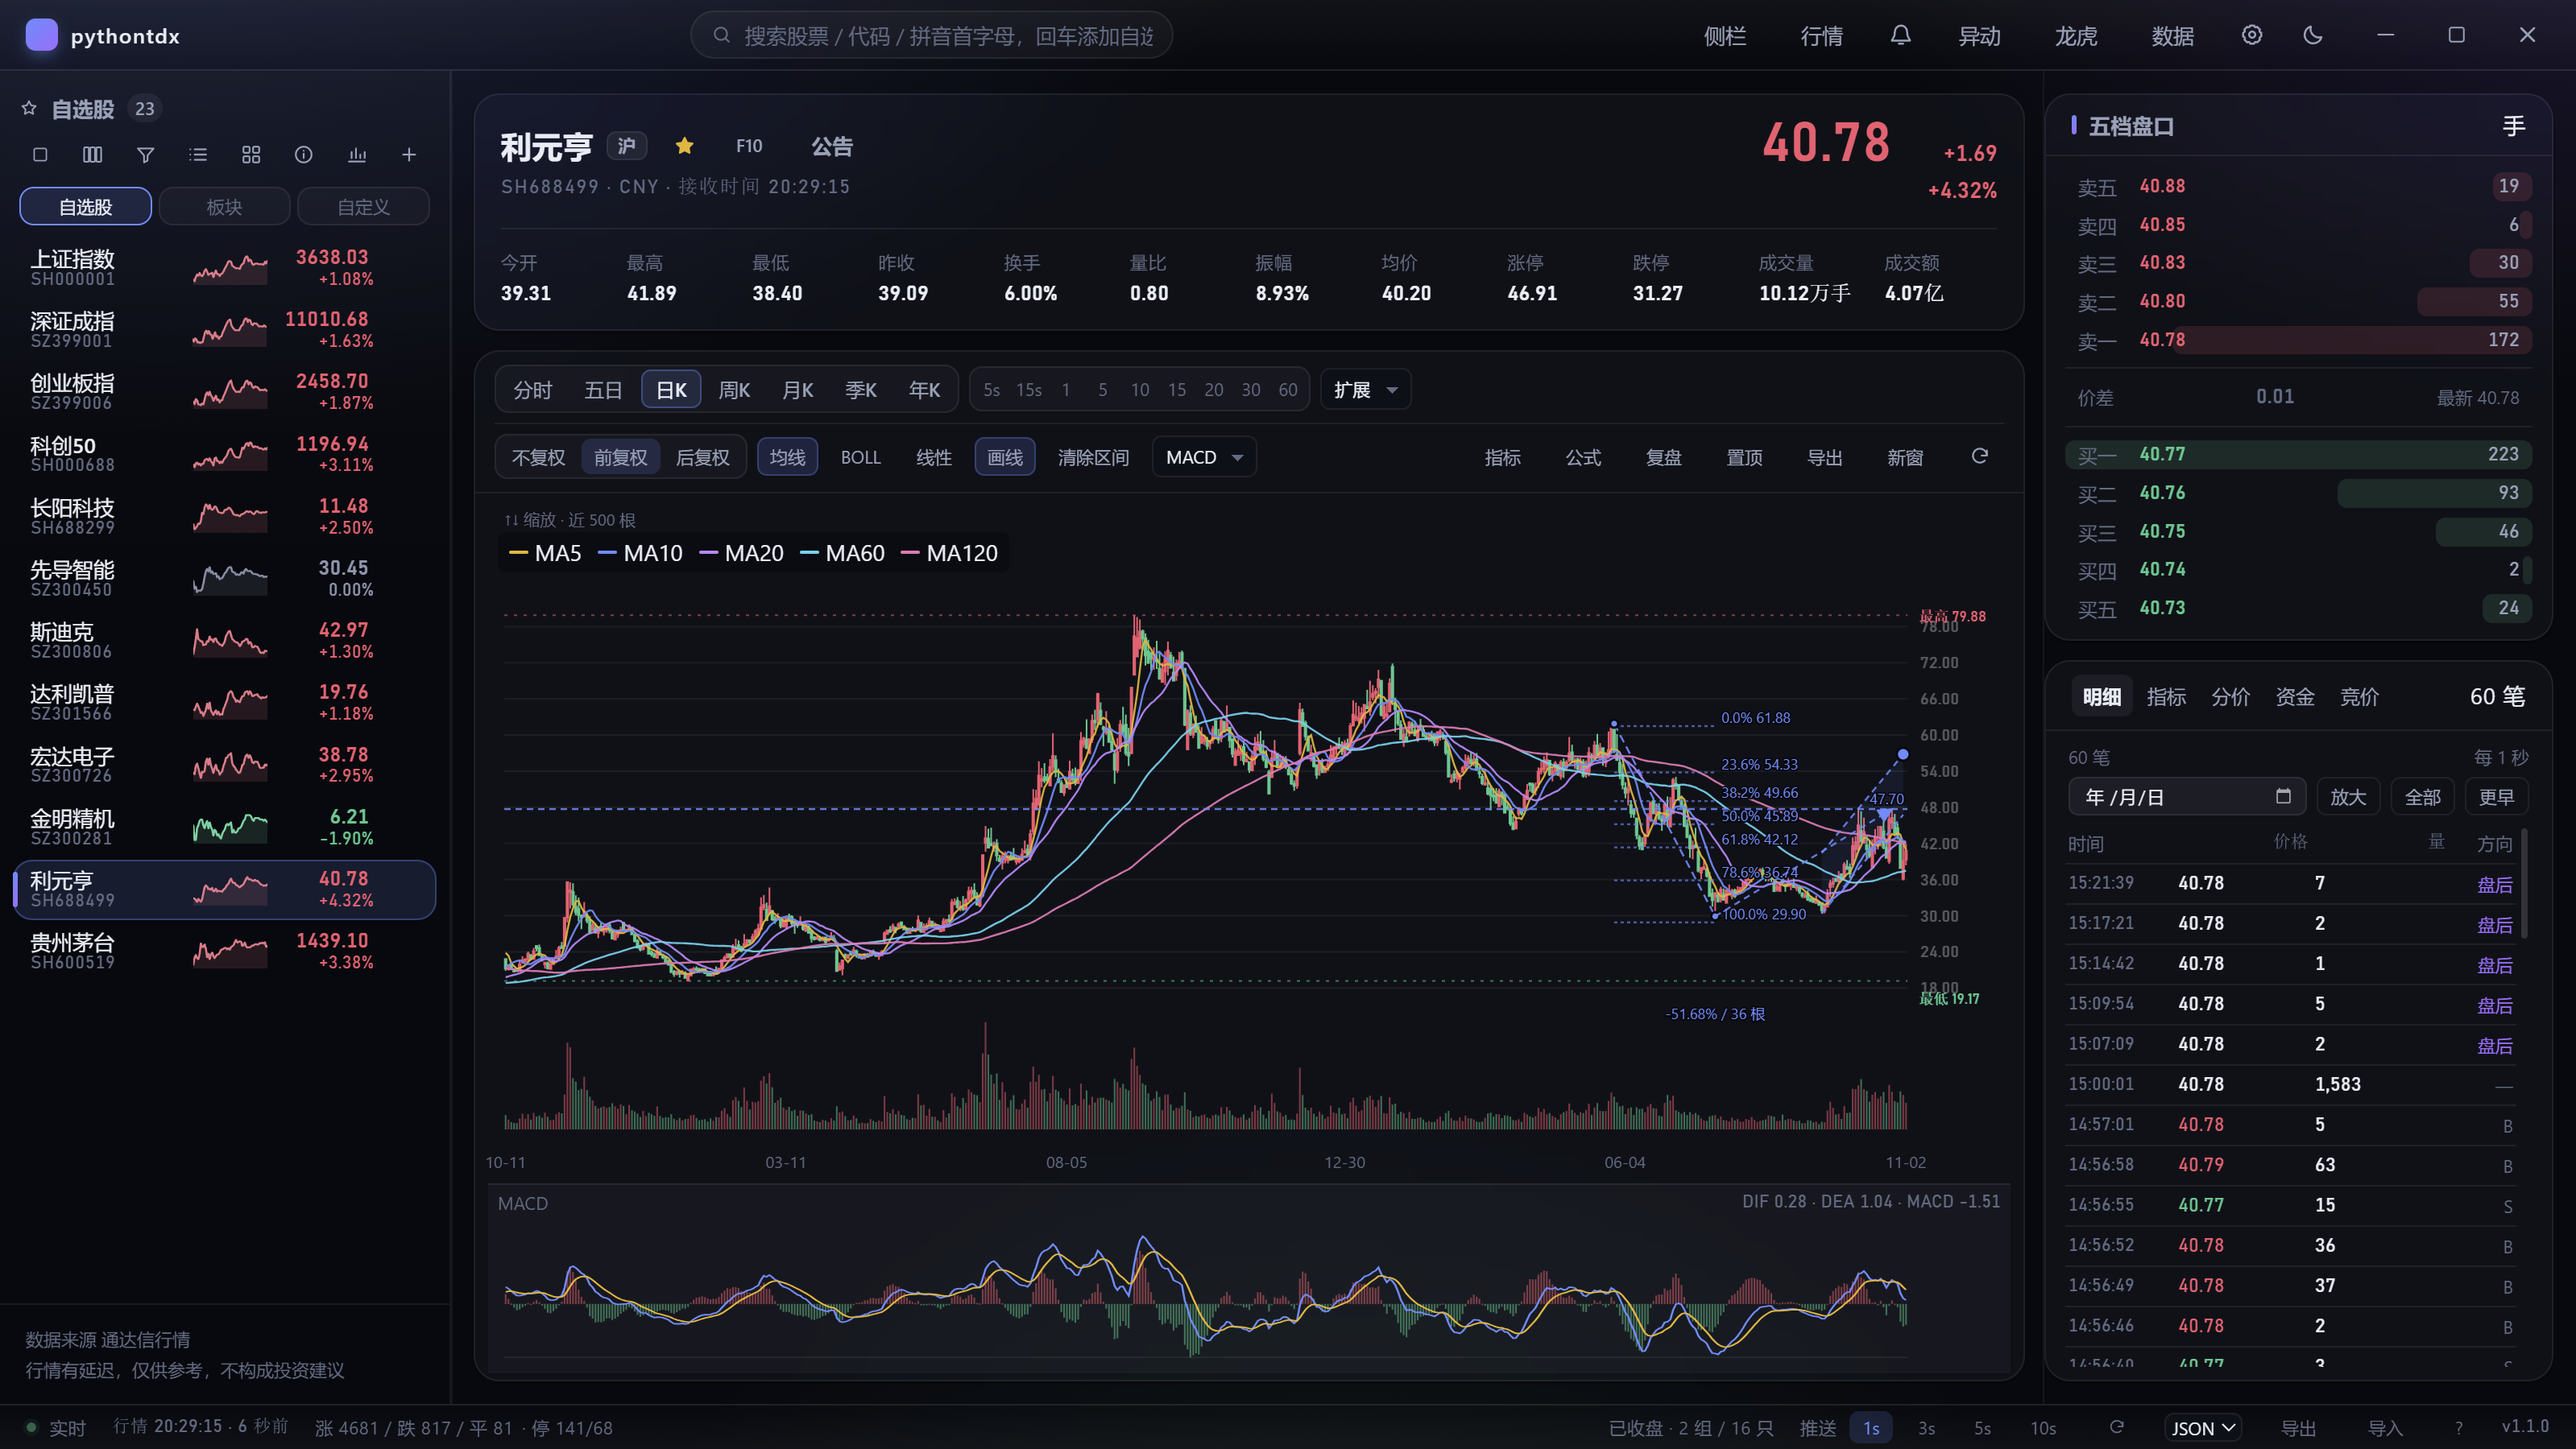
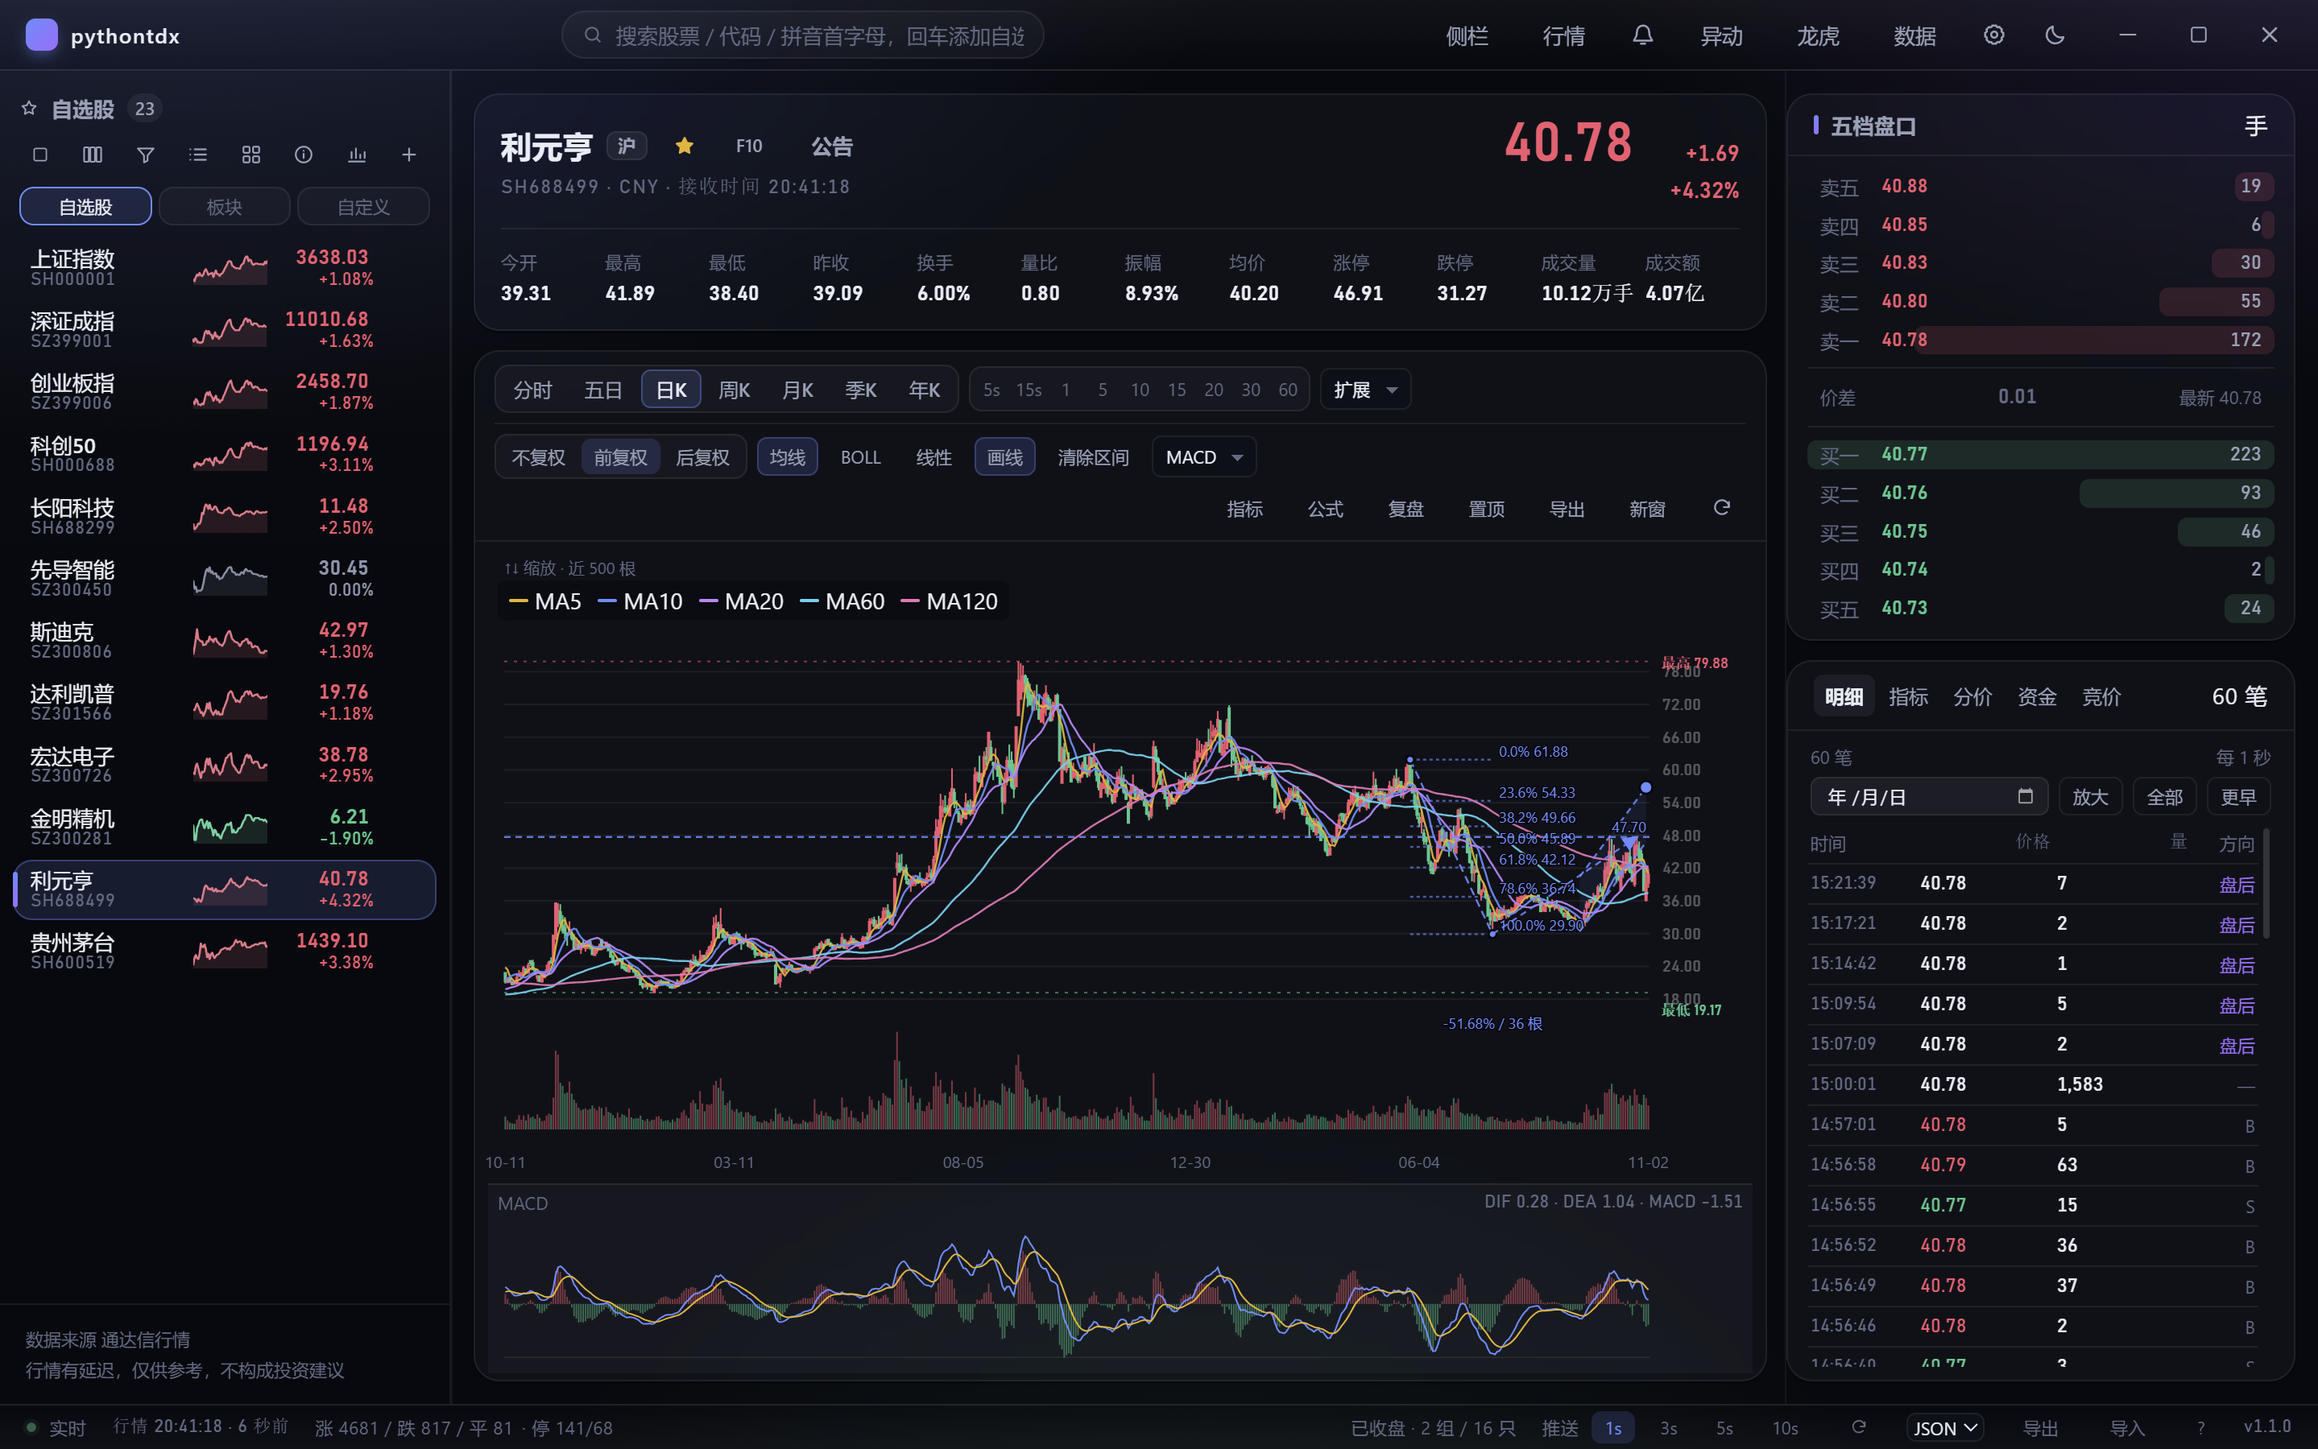
fix: 默认窗口 1440x900，主指标单行并适配宽表
- DEFAULT_WIDTH 1440；旧默认 1600x900/1280x820 启动时升级到 1440x900
- 主行情 12 项指标固定 12 列单行，1280 下缩小字号仍不裁切
- 全市场/板块/排行榜压缩列宽与间距，1440 下三表均无横向滚动
- 重新生成 README 的 overview/market/ranking/block 截图
- npm run check 全绿；Windows 1.1.0 安装包/便携版重新构建

diff --git a/src/renderer/src/components/BlockPanel.tsx b/src/renderer/src/components/BlockPanel.tsx
@@ -316,30 +316,16 @@ export function BlockPanel(props: BlockPanelProps): JSX.Element {
                   >
                     <table class="block__table">
                       <colgroup>
-                        <col style="width: 68px" />
-                        <col style="width: 100px" />
-                        <col style="width: 66px" />
-                        <col style="width: 68px" />
-                        <col style="width: 78px" />
-                        <col style="width: 56px" />
-                        <col style="width: 48px" />
-                        <col style="width: 54px" />
+                        <col style="width: 64px" />
+                        <col style="width: 88px" />
+                        <col style="width: 64px" />
+                        <col style="width: 64px" />
+                        <col style="width: 70px" />
+                        <col style="width: 52px" />
+                        <col style="width: 46px" />
+                        <col style="width: 50px" />
                         <For each={EXTRA_COLUMNS}>
-                          {(column) => (
-                            <col
-                              style={{
-                                width: `${
-                                  column.key === 'totalCap'
-                                    ? 70
-                                    : column.key === 'floatCap'
-                                      ? 72
-                                      : column.key === 'volume'
-                                        ? 70
-                                        : column.width - 2
-                                }px`
-                              }}
-                            />
-                          )}
+                          {(column) => <col style={{ width: `${column.width - 2}px` }} />}
                         </For>
                         <col style="width: 36px" />
                       </colgroup>

diff --git a/src/renderer/src/components/StockExtraColumns.tsx b/src/renderer/src/components/StockExtraColumns.tsx
@@ -15,17 +15,17 @@ export interface ExtraColumn {
 }
 
 export const EXTRA_COLUMNS: ExtraColumn[] = [
-  { key: 'open', label: '今开', width: 62 },
-  { key: 'high', label: '最高', width: 62 },
-  { key: 'low', label: '最低', width: 62 },
-  { key: 'prevClose', label: '昨收', width: 62 },
-  { key: 'volume', label: '成交量', width: 72 },
-  { key: 'avgPrice', label: '均价', width: 62 },
-  { key: 'amplitude', label: '振幅', width: 58 },
-  { key: 'limitUp', label: '涨停', width: 62 },
-  { key: 'limitDown', label: '跌停', width: 62 },
-  { key: 'totalCap', label: '总市值', width: 68 },
-  { key: 'floatCap', label: '流通市值', width: 70 }
+  { key: 'open', label: '今开', width: 58 },
+  { key: 'high', label: '最高', width: 58 },
+  { key: 'low', label: '最低', width: 58 },
+  { key: 'prevClose', label: '昨收', width: 58 },
+  { key: 'volume', label: '成交量', width: 64 },
+  { key: 'avgPrice', label: '均价', width: 58 },
+  { key: 'amplitude', label: '振幅', width: 54 },
+  { key: 'limitUp', label: '涨停', width: 58 },
+  { key: 'limitDown', label: '跌停', width: 58 },
+  { key: 'totalCap', label: '总市值', width: 64 },
+  { key: 'floatCap', label: '流通市值', width: 66 }
 ]
 
 const percent = (value: number | undefined): string =>

diff --git a/src/renderer/src/styles/app.css b/src/renderer/src/styles/app.css
@@ -684,11 +684,11 @@
   gap: var(--sp-2);
 }
 
-/* 头部下方的一排关键指标 */
+/* 头部下方的一排关键指标：固定 12 列，保证 1440×900 下不换行 */
 .quote-metrics {
   display: grid;
-  grid-template-columns: repeat(auto-fit, minmax(68px, 1fr));
-  gap: var(--sp-2) var(--sp-2);
+  grid-template-columns: repeat(12, minmax(0, 1fr));
+  gap: 4px 6px;
   padding-top: var(--sp-3);
   border-top: 1px solid var(--border);
 }
@@ -697,18 +697,39 @@
   display: flex;
   flex-direction: column;
   gap: 2px;
+  min-width: 0;
 }
 
 .metric__label {
   font-size: var(--fs-2xs);
   color: var(--text-3);
   letter-spacing: 0.04em;
+  white-space: nowrap;
 }
 
 .metric__value {
   font-size: var(--fs-sm);
   font-weight: 550;
   color: var(--text-1);
+  white-space: nowrap;
+  overflow: hidden;
+  text-overflow: ellipsis;
+  font-variant-numeric: tabular-nums;
+}
+
+@media (max-width: 1360px) {
+  .quote-metrics {
+    gap: 2px 4px;
+  }
+
+  .metric__label {
+    font-size: 10px;
+    letter-spacing: 0;
+  }
+
+  .metric__value {
+    font-size: 10px;
+  }
 }
 
 /* ================================================================ 图表卡 */

diff --git a/src/main/window.ts b/src/main/window.ts
@@ -12,7 +12,7 @@ import { setupCapture } from './capture'
 import { attachDiagnostics } from './diagnostics'
 import type { WindowBounds } from './services/store'
 
-const DEFAULT_WIDTH = 1600
+const DEFAULT_WIDTH = 1440
 const DEFAULT_HEIGHT = 900
 const MIN_WIDTH = 1024
 const MIN_HEIGHT = 660
@@ -49,10 +49,10 @@ export interface CreateWindowOptions {
 export function createMainWindow(options: CreateWindowOptions = {}): BrowserWindow {
   const icon = resolveWindowIcon()
 
-  // 旧默认尺寸升级到 16:9 的 1600×900；用户自定义尺寸保持原样。
+  // 旧默认尺寸（1600×900 / 1280×820）升级到 1440×900；用户自定义尺寸保持原样。
   const legacyDefault =
-    (options.bounds?.width === 1280 && options.bounds?.height === 820) ||
-    (options.bounds?.width === 1440 && options.bounds?.height === 900)
+    (options.bounds?.width === 1600 && options.bounds?.height === 900) ||
+    (options.bounds?.width === 1280 && options.bounds?.height === 820)
       ? options.bounds
       : undefined
   const window = new BrowserWindow({

diff --git a/src/renderer/src/styles/components.css b/src/renderer/src/styles/components.css
@@ -2172,7 +2172,7 @@
   min-height: 0;
   flex: 1;
   display: grid;
-  grid-template-columns: 184px minmax(0, 1fr);
+  grid-template-columns: 164px minmax(0, 1fr);
 }
 
 .block__side {

diff --git a/PLAN.md b/PLAN.md
@@ -16,8 +16,8 @@
 | 项目          | 值                                                                                                                                                                                                                                                                                                                                  |
 | ------------- | ----------------------------------------------------------------------------------------------------------------------------------------------------------------------------------------------------------------------------------------------------------------------------------------------------------------------------------- |
 | 版本          | `1.1.0`（正式名称 pythontdx；功能矩阵 334 ✅ / 0 🟡 / 0 ⬜ / 6 ⛔，数据边界另见 docs/12）                                                                                                                                                                                                                                     |
-| 最近提交      | 1.1.0 改名与迁移：UI/包名/appId/exe/数据目录/localStorage/schema/备份清单统一 pythontdx；旧 userData/Python 数据/便携目录/localStorage 自动复制迁移，旧目录保留；319 TS + 172 Python；Windows 安装包尚未重打 |
-| 健康度        | `npm run check` 全绿（319 TS，34 个测试文件；172 Python，1 skipped）；`audit:data` 39/39；1440×900/1512×982/1280×800 无横向溢出（改名后 1440 复测） |
+| 最近提交      | 1.1.0 改名与迁移：UI/包名/appId/exe/数据目录/localStorage/schema/备份清单统一 pythontdx；旧数据自动迁移；默认窗口 1440×900，主指标单行、全市场/板块/排行榜无横向滚动；319 TS + 172 Python；Windows 安装包已本机构建 |
+| 健康度        | `npm run check` 全绿（319 TS，34 个测试文件；172 Python，1 skipped）；`audit:data` 39/39；1440/1512/1280 主指标单行无裁切；1440 下全市场、板块/概念、排行榜（含全市场）表格无横向滚动 |
 | 目标          | 桌面 + Web 双前端；A 股协议全覆盖；实时 + 离线 + 面向 ML 的数据湖（`docs/00`）                                                                                                                                                                                                                                                      |
 | 数据源        | 通达信 7709 + MAC + 7615 + 文件下载/本地文件；7727/EX 不做                                                                                                                                                                                                                                                                          |
 | 分发          | 1.0.0 三平台 Release 仍保留旧资产名；1.1.0 仅完成源码改名/迁移，Linux/Windows/macOS 安装包尚未重打 |

diff --git a/docs/07-手动编译发布手册.md b/docs/07-手动编译发布手册.md
@@ -1823,7 +1823,10 @@ Parquet schema 与文档。要求旧用户升级后不丢自选/设置/离线数
   172 Python（1 skipped）**；
 - 重命名后首次启动：日志 `[migrate] 已迁移旧用户目录`，左侧自选 23 只、
   版本 `v1.1.0`，数据目录已迁到 `pythontdx`；
-- 1440×900、1512×982、1280×800 均无横向溢出；1280 下头部指标按设计换行；
+- 默认窗口 1440×900；1440×900/1512×982/1280×800 主行情指标均为单行，
+  无横向溢出、无裁切；
+- 全市场列表、板块/概念、排行榜（含全市场模式）在 1440×900 下表格
+  `scrollWidth === clientWidth`，无横向滚动条；
 - 迁移测试：旧 userData/本地存储/便携目录、Python 旧目录、已有新目录不覆盖、
   旧环境变量别名、旧备份清单。
 

diff --git a/CHANGELOG.md b/CHANGELOG.md
@@ -17,6 +17,8 @@ pythontdx 的所有重要变更都记录在这里。
 - **正式名称统一为 `pythontdx`**：窗口/标题/托盘/设置/安装包/快捷方式/产物文件名、
   `appId`、包名、Python sidecar 的缓存路径、数据 schema、备份 manifest、
   localStorage key 与文档全部改名。
+- **默认窗口改为 1440×900**：旧 1600×900/1280×820 默认尺寸启动时升级；
+  主行情指标固定 12 列单行，全市场/板块/排行榜压缩列宽，1440 下无横向滚动。
 - **旧数据迁移**（不删除旧目录/旧键）：
   - 主进程把 `%APPDATA%/StockLens`（或旧 userData 目录）复制到 `pythontdx`，
     `stocklens.json` 复制为 `pythontdx.json`；便携版 `StockLens-data` → `pythontdx-data`；
